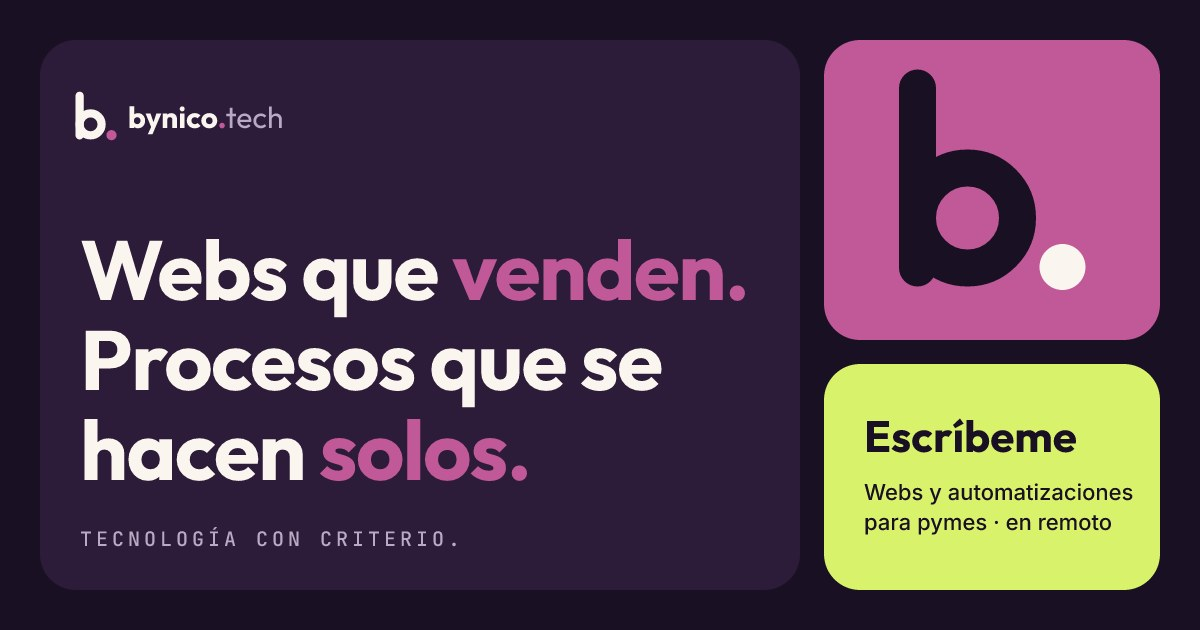
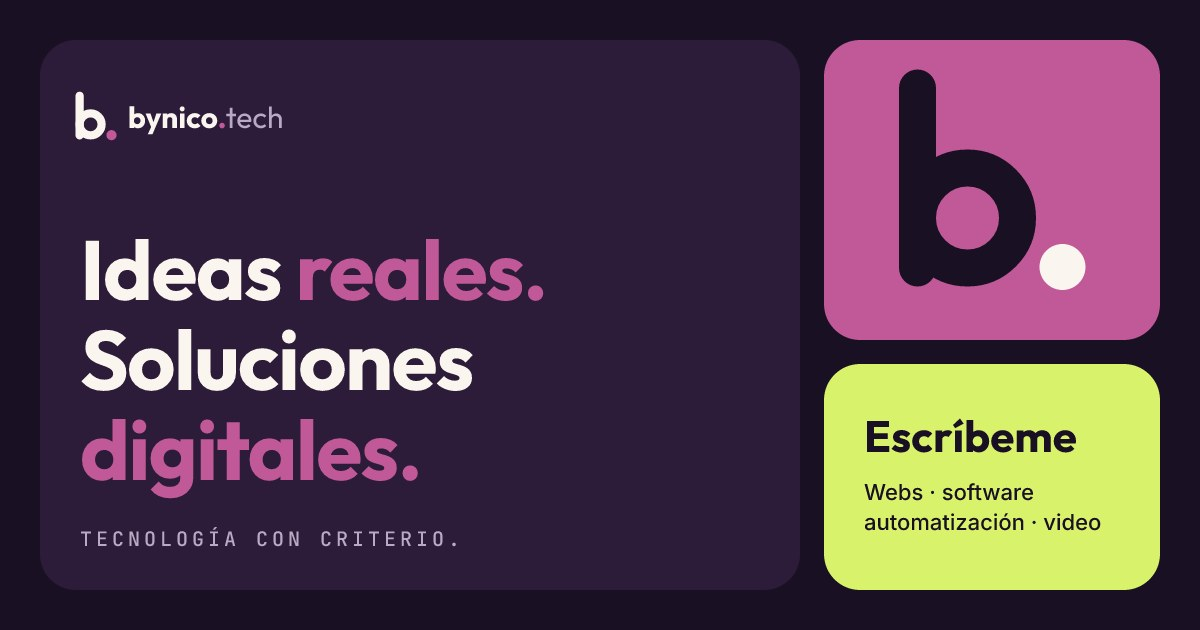
Web: frase 'Ideas reales. Soluciones digitales.', 4 servicios, proceso sin llamada y enlace de MOBULA

diff --git a/index.html b/index.html
@@ -3,14 +3,14 @@
 <head>
   <meta charset="utf-8">
   <meta name="viewport" content="width=device-width, initial-scale=1">
-  <title>bynico.tech · Webs que venden. Procesos que se hacen solos.</title>
-  <meta name="description" content="Webs y automatizaciones para pymes y emprendedores. Respuestas automáticas de WhatsApp, reservas, presupuestos y webs que traen consultas. Sin tecnicismos, en remoto.">
+  <title>bynico.tech · Ideas reales. Soluciones digitales.</title>
+  <meta name="description" content="Páginas web, software a medida, automatizaciones y videos para pymes y emprendedores. Sin tecnicismos y en remoto. Escríbeme por WhatsApp.">
   <link rel="canonical" href="https://bynico.tech/">
 
   <meta property="og:type" content="website">
   <meta property="og:url" content="https://bynico.tech/">
-  <meta property="og:title" content="bynico.tech · Webs que venden. Procesos que se hacen solos.">
-  <meta property="og:description" content="Webs y automatizaciones para pymes y emprendedores. Sin tecnicismos, en remoto.">
+  <meta property="og:title" content="bynico.tech · Ideas reales. Soluciones digitales.">
+  <meta property="og:description" content="Páginas web, software a medida, automatizaciones y videos para pymes y emprendedores. Sin tecnicismos y en remoto.">
   <meta property="og:image" content="https://bynico.tech/og.jpg">
   <meta property="og:image:width" content="1200">
   <meta property="og:image:height" content="630">
@@ -51,6 +51,7 @@
     </a>
     <nav class="top__nav" aria-label="Secciones">
       <a href="#problemas">Qué resuelvo</a>
+      <a href="#servicios">Servicios</a>
       <a href="#proyectos">Proyectos</a>
       <a href="#proceso">Cómo trabajo</a>
       <a href="#preguntas">Preguntas</a>
@@ -61,13 +62,13 @@
   <main class="bento">
     <!-- HERO ─────────────────────────────────────────── -->
     <section class="cell cell--hero tone-plum" aria-labelledby="hero-title">
-      <p class="kicker">Webs · Automatizaciones · En remoto</p>
+      <p class="kicker">Webs · Software · Automatizaciones · Video</p>
       <h1 id="hero-title" class="hero__title">
-        <span class="hero__line">Webs que <em>venden.</em></span>
-        <span class="hero__line">Procesos que se</span>
-        <span class="hero__line">hacen <em>solos.</em></span>
+        <span class="hero__line">Ideas <em>reales.</em></span>
+        <span class="hero__line">Soluciones</span>
+        <span class="hero__line"><em>digitales.</em></span>
       </h1>
-      <p class="hero__lead">Creo páginas web y automatizaciones para que tu negocio venda más y trabaje menos a mano. Sin tecnicismos, a medida y en remoto.</p>
+      <p class="hero__lead">Creo páginas web, software a medida, automatizaciones y videos para que tu negocio venda más y trabaje menos a mano. Sin tecnicismos y en remoto.</p>
       <div class="hero__actions">
         <a class="btn btn--lime" data-wa href="https://wa.me/34624091057">Cuéntame tu proyecto</a>
         <a class="link" href="#problemas">Mira qué puedo resolverte →</a>
@@ -147,7 +148,7 @@
     </section>
 
     <!-- SERVICIOS ────────────────────────────────────── -->
-    <article class="cell cell--web tone-plum">
+    <article class="cell cell--web tone-plum" id="servicios">
       <p class="kicker">Servicio 01</p>
       <h3 class="h3">Páginas web</h3>
       <p class="cell__lead">Rápidas, claras y pensadas para vender. Que escribirte sea lo más fácil de la página.</p>
@@ -158,14 +159,36 @@
       </ul>
     </article>
 
-    <article class="cell cell--auto tone-plum">
+    <article class="cell cell--soft tone-plum">
       <p class="kicker">Servicio 02</p>
+      <h3 class="h3">Software a medida</h3>
+      <p class="cell__lead">La herramienta exacta para tu negocio, cuando una web no basta.</p>
+      <ul class="bullets">
+        <li>Turnos y reservas</li>
+        <li>Paneles y portales</li>
+        <li>Usuarios y permisos</li>
+      </ul>
+    </article>
+
+    <article class="cell cell--auto tone-plum">
+      <p class="kicker">Servicio 03</p>
       <h3 class="h3">Automatizaciones</h3>
       <p class="cell__lead">Se encargan de lo repetitivo. Te explico cada una sin tecnicismos.</p>
       <ul class="bullets">
         <li>Mensajes de WhatsApp y correo</li>
         <li>Reservas, recordatorios y seguimiento</li>
         <li>Conexión entre tus herramientas, con IA cuando suma</li>
+      </ul>
+    </article>
+
+    <article class="cell cell--video tone-plum">
+      <p class="kicker">Servicio 04</p>
+      <h3 class="h3">Videos sobre tu marca</h3>
+      <p class="cell__lead">Tu marca, en movimiento. Para tus redes y tu web.</p>
+      <ul class="bullets">
+        <li>Reels e historias</li>
+        <li>Tu logo animado</li>
+        <li>Subtítulos y voz</li>
       </ul>
     </article>
 
@@ -210,7 +233,7 @@
         <p class="kicker">Proyecto conceptual</p>
         <h3 class="h3">MOBULA</h3>
         <p>Un acuario inmersivo: la página baja de la superficie a 4.000 m mientras haces scroll, y un asistente responde las preguntas frecuentes.</p>
-        <a class="project__url" href="https://modulacuario.vercel.app" target="_blank" rel="noopener">modulacuario.vercel.app ↗</a>
+        <a class="project__url" href="https://mobulacuario.vercel.app" target="_blank" rel="noopener">mobulacuario.vercel.app ↗</a>
       </div>
       <div class="project__media">
         <img class="project__desk" src="/assets/img/mobula-desk.webp" alt="Página de inicio de MOBULA en escritorio" width="1200" height="750" loading="lazy">
@@ -222,9 +245,9 @@
       <p class="kicker">Así trabajamos</p>
       <h2 id="process-title" class="h2">4 pasos, sin letra pequeña</h2>
       <ol class="steps">
-        <li class="step"><span class="step__n" aria-hidden="true">1</span><h3 class="step__title">Hablamos</h3><p>Una llamada corta para entender tu negocio y qué te quita tiempo.</p></li>
-        <li class="step"><span class="step__n" aria-hidden="true">2</span><h3 class="step__title">Te propongo</h3><p>Te envío una propuesta con precio y plazos. Sin letra pequeña.</p></li>
-        <li class="step"><span class="step__n" aria-hidden="true">3</span><h3 class="step__title">Construyo</h3><p>Te muestro avances para que opines antes de que esté terminado.</p></li>
+        <li class="step"><span class="step__n" aria-hidden="true">1</span><h3 class="step__title">Me escribes</h3><p>Me cuentas por WhatsApp qué necesitas y qué te quita tiempo. Te respondo personalmente.</p></li>
+        <li class="step"><span class="step__n" aria-hidden="true">2</span><h3 class="step__title">Te propongo</h3><p>Te envío una propuesta con precio y plazos por escrito, antes de empezar.</p></li>
+        <li class="step"><span class="step__n" aria-hidden="true">3</span><h3 class="step__title">Lo construyo</h3><p>Te muestro avances para que opines antes de que esté terminado.</p></li>
         <li class="step"><span class="step__n" aria-hidden="true">4</span><h3 class="step__title">Lo publicamos</h3><p>Lo dejamos funcionando y te enseño a usarlo, paso a paso.</p></li>
       </ol>
     </section>
@@ -253,7 +276,7 @@
         </details>
         <details>
           <summary>¿Trabajas con negocios de mi país?</summary>
-          <p>Sí. Trabajo en remoto con pymes y emprendedores de todo el mundo hispanohablante. Nos organizamos por videollamada y WhatsApp.</p>
+          <p>Sí. Trabajo en remoto con pymes y emprendedores de todo el mundo hispanohablante. Nos organizamos por WhatsApp y correo, a tu ritmo.</p>
         </details>
         <details>
           <summary>¿Cuánto se tarda?</summary>

diff --git a/tools/build-assets.js b/tools/build-assets.js
@@ -54,14 +54,14 @@ function ico(pngs) {
   <rect x="824" y="40" width="336" height="300" rx="36" fill="${C.orq}"/>${simbolo(992, 180, 0.5, C.berenjena, C.crema)}
   <rect x="824" y="364" width="336" height="226" rx="36" fill="${C.lima}"/>
   <text x="864" y="452" font-family="Outfit" font-weight="700" font-size="44" fill="${C.berenjena}">Escríbeme</text>
-  <text x="864" y="500" font-family="Inter" font-weight="500" font-size="22" fill="${C.berenjena}">Webs y automatizaciones</text>
-  <text x="864" y="530" font-family="Inter" font-weight="500" font-size="22" fill="${C.berenjena}">para pymes · en remoto</text>
+  <text x="864" y="500" font-family="Inter" font-weight="500" font-size="22" fill="${C.berenjena}">Webs · software</text>
+  <text x="864" y="530" font-family="Inter" font-weight="500" font-size="22" fill="${C.berenjena}">automatización · video</text>
   ${simbolo(96, 116, 0.11, C.crema, C.orq)}
   <text x="128" y="128" font-family="Outfit" font-weight="700" font-size="30" fill="${C.crema}">bynico<tspan fill="${C.orq}">.</tspan><tspan font-weight="400" fill="${C.lavanda}">tech</tspan></text>
   <text font-family="Outfit" font-weight="700" font-size="84" fill="${C.crema}" letter-spacing="-1.6">
-    <tspan x="80" y="300">Webs que <tspan fill="${C.orq}">venden.</tspan></tspan>
-    <tspan x="80" y="390">Procesos que se</tspan>
-    <tspan x="80" y="480">hacen <tspan fill="${C.orq}">solos.</tspan></tspan>
+    <tspan x="80" y="300">Ideas <tspan fill="${C.orq}">reales.</tspan></tspan>
+    <tspan x="80" y="390">Soluciones</tspan>
+    <tspan x="80" y="480"><tspan fill="${C.orq}">digitales.</tspan></tspan>
   </text>
   <text x="80" y="546" font-family="JetBrains Mono" font-weight="500" font-size="20" fill="${C.lavanda}" letter-spacing="4">TECNOLOGÍA CON CRITERIO.</text>
 </svg>`;

diff --git a/css/site.css b/css/site.css
@@ -144,10 +144,11 @@ figure { margin: 0; }
     "hero  hero  chat  mark"
     "hero  hero  chat  cta"
     "prob  prob  prob  prob"
-    "web   autom fit   fit"
+    "web   soft  autom video"
     "menui menui alm   alm"
     "menui menui mob   mob"
-    "proc  proc  proc  close"
+    "proc  proc  proc  proc"
+    "fit   fit   close close"
     "faq   faq   faq   faq";
 }
 .cell--hero  { grid-area: hero; }
@@ -156,7 +157,9 @@ figure { margin: 0; }
 .cell--cta   { grid-area: cta; }
 .cell--prob  { grid-area: prob; }
 .cell--web   { grid-area: web; }
+.cell--soft  { grid-area: soft; }
 .cell--auto  { grid-area: autom; } /* "auto" es palabra reservada en grid-area */
+.cell--video { grid-area: video; }
 .cell--fit   { grid-area: fit; }
 .cell--menui { grid-area: menui; }
 .cell--alm   { grid-area: alm; }
@@ -421,13 +424,13 @@ figure { margin: 0; }
       "chat  mark"
       "chat  cta"
       "prob  prob"
-      "web   autom"
-      "fit   fit"
+      "web   soft"
+      "autom video"
       "menui menui"
       "alm   alm"
       "mob   mob"
       "proc  proc"
-      "close close"
+      "fit   close"
       "faq   faq";
   }
   .cell--hero { min-height: 480px; }
@@ -457,12 +460,14 @@ figure { margin: 0; }
       "mark  cta"
       "prob  prob"
       "web   web"
+      "soft  soft"
       "autom autom"
-      "fit   fit"
+      "video video"
       "menui menui"
       "alm   alm"
       "mob   mob"
       "proc  proc"
+      "fit   fit"
       "close close"
       "faq   faq";
   }
